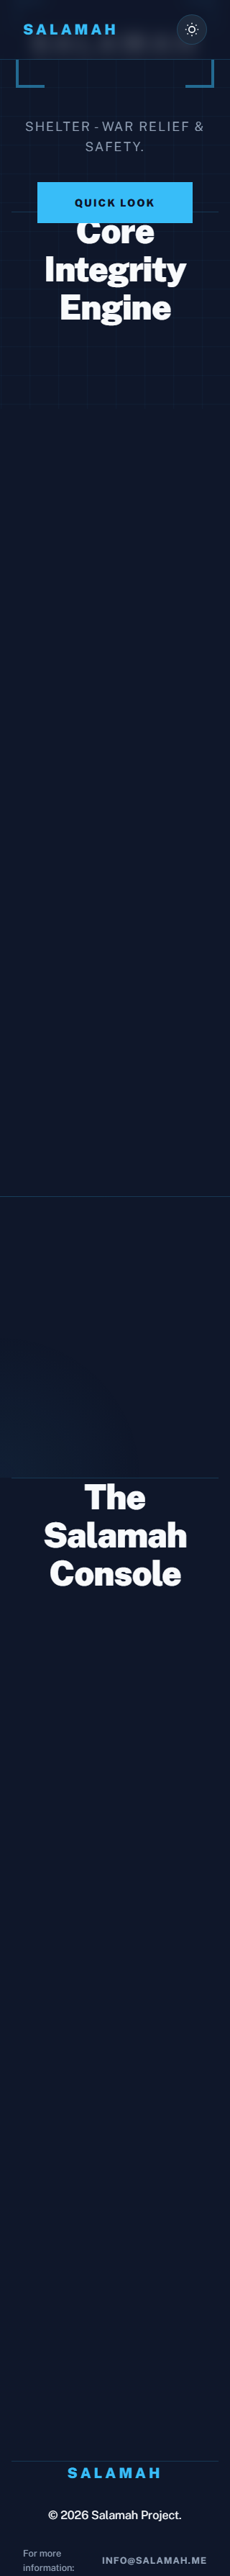
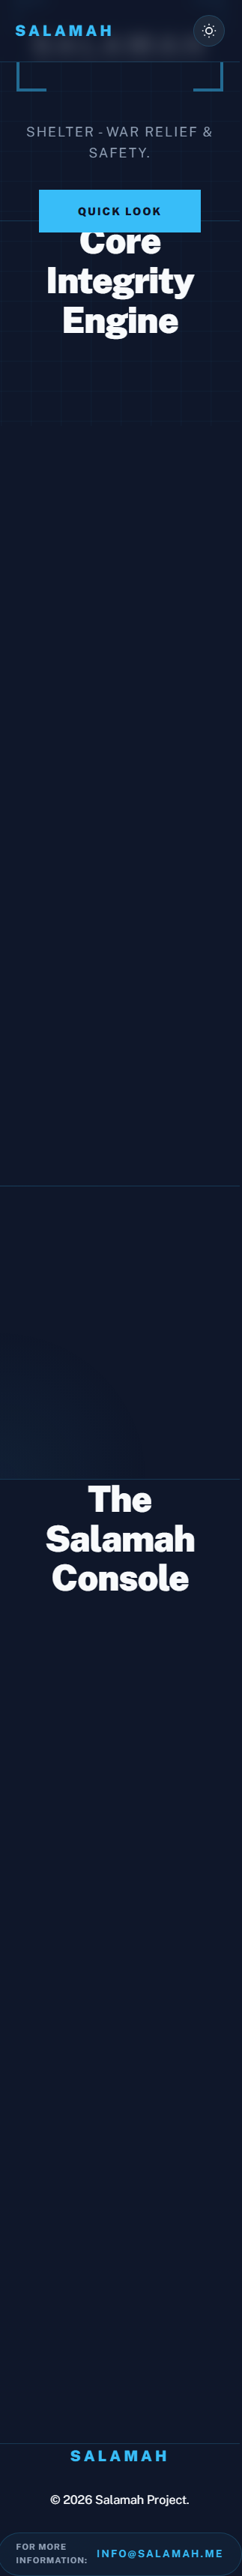
style: final mobile symmetry refinement and footer pill redesign

diff --git a/.superpowers/brainstorm/session-1777763088/content/balance-footer.html b/.superpowers/brainstorm/session-1777763088/content/balance-footer.html
@@ -1,0 +1,58 @@
+<h2>Balancing the Scale & Refining the Footer</h2>
+<p class="subtitle">Ensuring perfect centering and a hardened footer design</p>
+
+<div class="section">
+  <h3>1. Correcting the "Left-Heavy" Alignment</h3>
+  <p>To ensure the layout is perfectly centered without any visual drift, we'll simplify the container logic. Instead of nested percentages, we'll use a clean symmetric margin.</p>
+</div>
+
+<div class="options">
+  <div class="option" data-choice="centering-fix" onclick="toggleSelect(this)">
+    <div class="letter">A</div>
+    <div class="content">
+      <h3>Symmetric Centering</h3>
+      <p>Use <code>margin: 0 auto</code> with a <code>width: calc(100% - 40px)</code>. This ensures an identical 20px "air gap" on both sides, guaranteed.</p>
+    </div>
+  </div>
+</div>
+
+<div class="section">
+  <h3>2. Improving the Contact Section</h3>
+  <p>The current "For more information" link is a bit plain. Let's give it more weight to match the "Hardened Infrastructure" theme.</p>
+</div>
+
+<div class="options">
+  <div class="option" data-choice="footer-pill" onclick="toggleSelect(this)">
+    <div class="letter">B</div>
+    <div class="content">
+      <h3>The "Command Pill"</h3>
+      <p>Encapsulate the email in a high-contrast pill with a subtle border, making it feel like a call-to-action.</p>
+    </div>
+  </div>
+  <div class="option" data-choice="footer-minimal" onclick="toggleSelect(this)">
+    <div class="letter">C</div>
+    <div class="content">
+      <h3>Hardened Minimalism</h3>
+      <p>Use a monospaced font for the email with a leading icon, emphasizing the technical nature of the project.</p>
+    </div>
+  </div>
+</div>
+
+<div class="split">
+  <div class="mockup">
+    <div class="mockup-header">Current Footer</div>
+    <div class="mockup-body" style="padding: 20px; text-align: center;">
+       <div style="font-size: 0.8rem; color: #94a3b8; margin-bottom: 10px;">For more information:</div>
+       <div style="font-weight: bold; color: #94a3b8; font-size: 0.8rem; text-transform: uppercase;">[email redacted]</div>
+    </div>
+  </div>
+  <div class="mockup">
+    <div class="mockup-header">Proposed "Command Pill"</div>
+    <div class="mockup-body" style="padding: 20px; text-align: center;">
+       <div style="display: inline-block; padding: 10px 20px; border: 1px solid #38bdf8; border-radius: 50px; background: rgba(56, 189, 248, 0.05);">
+         <span style="font-size: 0.7rem; color: #94a3b8; text-transform: uppercase; margin-right: 10px;">INQUIRIES:</span>
+         <span style="font-weight: 900; color: #38bdf8; font-size: 0.8rem;">[email redacted]</span>
+       </div>
+    </div>
+  </div>
+</div>

diff --git a/docs/superpowers/plans/2026-05-05-mobile-symmetry-footer-refinement.md b/docs/superpowers/plans/2026-05-05-mobile-symmetry-footer-refinement.md
@@ -1,0 +1,120 @@
+# Mobile Symmetry & Footer Refinement Plan
+
+> **For agentic workers:** REQUIRED SUB-SKILL: Use superpowers:subagent-driven-development (recommended) or superpowers:executing-plans to implement this plan task-by-task. Steps use checkbox (`- [ ]`) syntax for tracking.
+
+**Goal:** Fix the "left-shifted" appearance on mobile and improve the footer contact section.
+
+**Architecture:** Use a standard `padding: 0 20px` model for the mobile container to ensure perfect centering. Redesign the footer email link into a "Hardened" pill component.
+
+**Tech Stack:** Vanilla CSS, HTML.
+
+---
+
+### Task 1: Symmetric Centering Fix
+
+**Files:**
+- Modify: `styles/main.css`
+
+- [ ] **Step 1: Simplify mobile container logic**
+Update the 768px media query to use fixed padding instead of percentage width/padding to avoid rounding shifts.
+
+```css
+/* styles/main.css */
+@media (max-width: 768px) {
+    .container { 
+        width: 100%; 
+        padding: 0 20px; 
+        margin: 0;
+        max-width: none;
+    }
+}
+```
+
+- [ ] **Step 2: Verify alignment**
+Check that the layout is perfectly centered at 320px and 375px widths.
+
+- [ ] **Step 3: Commit**
+```bash
+git add styles/main.css
+git commit -m "style: fix mobile centering with symmetric padding"
+```
+
+### Task 2: Footer Contact Section Redesign
+
+**Files:**
+- Modify: `index.html`
+- Modify: `styles/main.css`
+
+- [ ] **Step 1: Update Footer HTML**
+Wrap the email in a "contact-pill" and update the label text.
+
+```html
+<!-- index.html -->
+<div class="footer-links">
+    <div class="contact-pill">
+        <span class="pill-label">FOR MORE INFORMATION:</span>
+        <a href="mailto:[email redacted]">[email redacted]</a>
+    </div>
+</div>
+```
+
+- [ ] **Step 2: Add Pill Styles to CSS**
+Add the styles for the new contact component.
+
+```css
+/* styles/main.css */
+.contact-pill {
+    display: flex;
+    align-items: center;
+    gap: 12px;
+    padding: 10px 24px;
+    border: 1px solid var(--border);
+    border-radius: 50px;
+    background: rgba(56, 189, 248, 0.05);
+    transition: 0.3s;
+}
+.contact-pill:hover {
+    border-color: var(--accent);
+    background: rgba(56, 189, 248, 0.1);
+}
+.pill-label {
+    font-size: 0.7rem;
+    color: var(--text-muted);
+    font-weight: 700;
+    letter-spacing: 1px;
+}
+.contact-pill a {
+    color: var(--accent) !important;
+    font-size: 0.85rem !important;
+    letter-spacing: 2px !important;
+}
+
+@media (max-width: 480px) {
+    .contact-pill {
+        flex-direction: column;
+        gap: 5px;
+        border-radius: 12px;
+        width: 100%;
+    }
+}
+```
+
+- [ ] **Step 3: Verify Footer on Mobile**
+Ensure the pill fits within the 320px container and looks balanced.
+
+- [ ] **Step 4: Commit**
+```bash
+git add index.html styles/main.css
+git commit -m "style: redesign footer contact as a hardened pill"
+```
+
+### Task 3: Final Verification
+
+- [ ] **Step 1: Run final screenshot verification**
+Use `scripts/capture_final_mobile.py` to confirm everything is centered and the footer looks good.
+
+- [ ] **Step 2: Commit final artifacts**
+```bash
+git add logs/
+git commit -m "chore: final verification screenshots for symmetry fix"
+```

diff --git a/docs/superpowers/specs/2026-05-05-mobile-scale-optimization-design.md b/docs/superpowers/specs/2026-05-05-mobile-scale-optimization-design.md
@@ -13,21 +13,26 @@ The current mobile view (specifically for devices < 768px) suffers from "terribl
 - Improve the visual "breathing room" in the layout.
 
 ## 3. Architecture & Changes
-
 ### 3.1 Fluid Container System
 - **Selector:** `.container`
-- **Mobile Change:** Update `padding` and `width` logic.
-- **Logic:** Use a responsive gutter that scales between 15px and 20px based on viewport width.
+- **Mobile Change:** Simplify to a fixed-padding model for guaranteed symmetry.
+- **Logic:** Use `padding: 0 20px` with `width: 100%` and `box-sizing: border-box`.
 - **Implementation:**
   ```css
   @media (max-width: 768px) {
     .container {
-      width: 90%;
-      padding: 0 5%;
-      margin: 0 auto;
+      width: 100%;
+      padding: 0 20px;
+      margin: 0;
+      max-width: none;
     }
   }
   ```
+
+### 3.2 Footer Contact Refinement
+- **Text:** Change "Inquiries" or plain label to "FOR MORE INFORMATION:".
+- **Style:** Wrap in a high-contrast pill/border for better visual hierarchy.
+
 
 ### 3.2 Typographic Scaling (Horizontal)
 - **H1 Header:** Use `clamp()` to ensure the logo/title stays on one line.